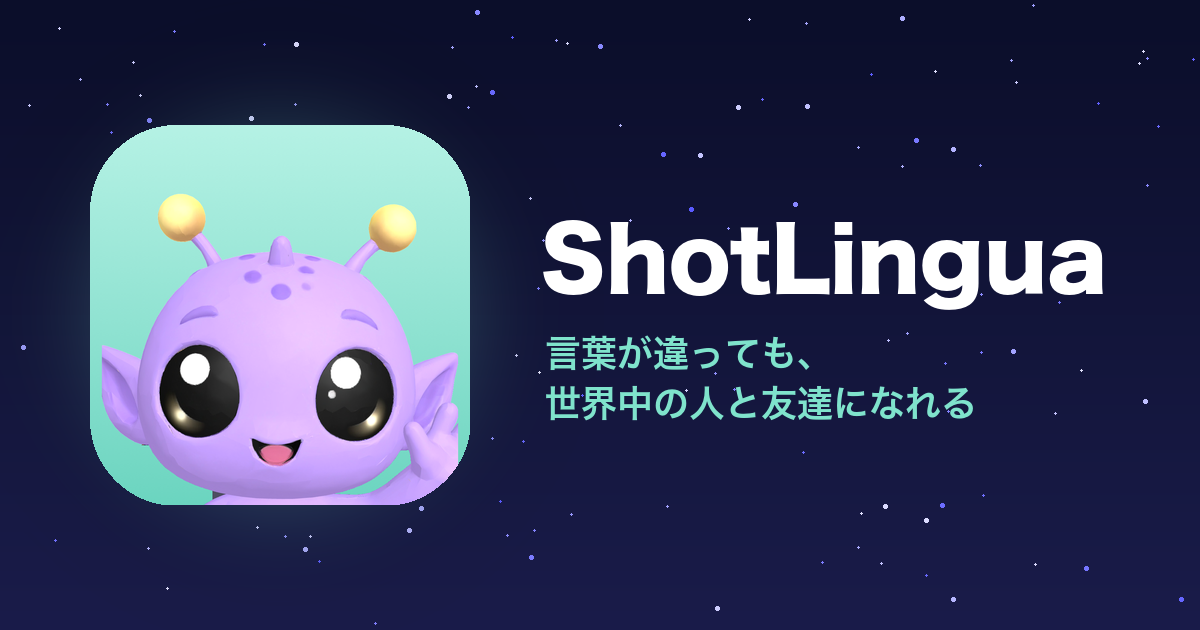
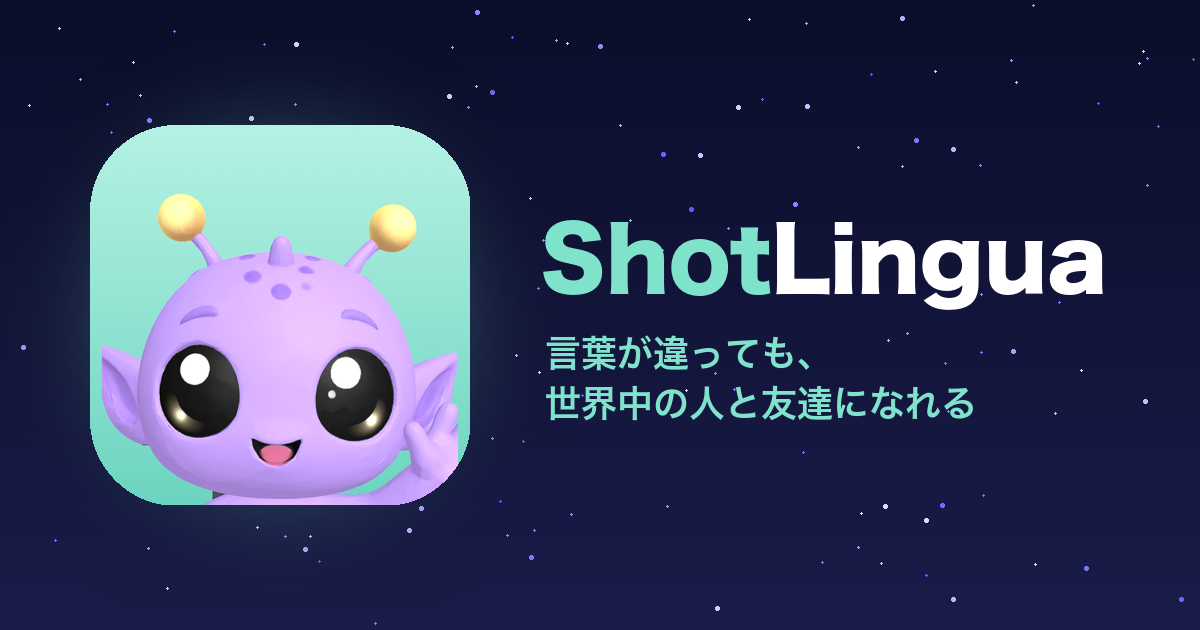
ロゴの Shot をミントに(起動画面と同じ)
Claude-Session: https://claude.ai/code/session_01H6EJLdj6YbRXhX5BEbs6br

Changed region(s): [[0.4317, 0.3317, 0.6475, 0.4825]]

diff --git a/share.html b/share.html
@@ -128,7 +128,7 @@
 </head>
 <body>
   <div class="wrap">
-    <div class="hd"><img src="appicon.png" alt="" /><b>ShotLingua</b><span class="dom">shotlingua.app</span></div>
+    <div class="hd"><img src="appicon.png" alt="" /><b><span style="color:#7FE3CC">Shot</span>Lingua</b><span class="dom">shotlingua.app</span></div>
     <div id="content"><div class="state">読み込み中…</div></div>
   </div>
   <div class="cta" id="cta" style="display:none">
